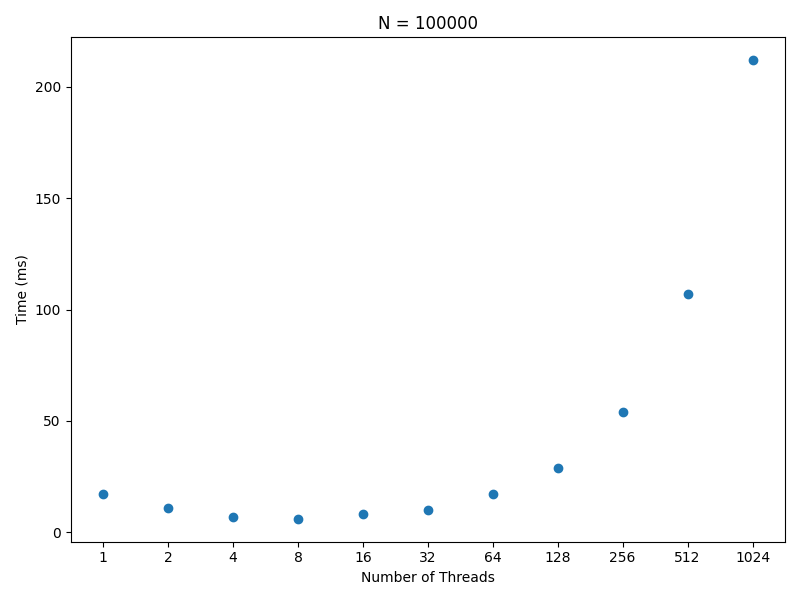
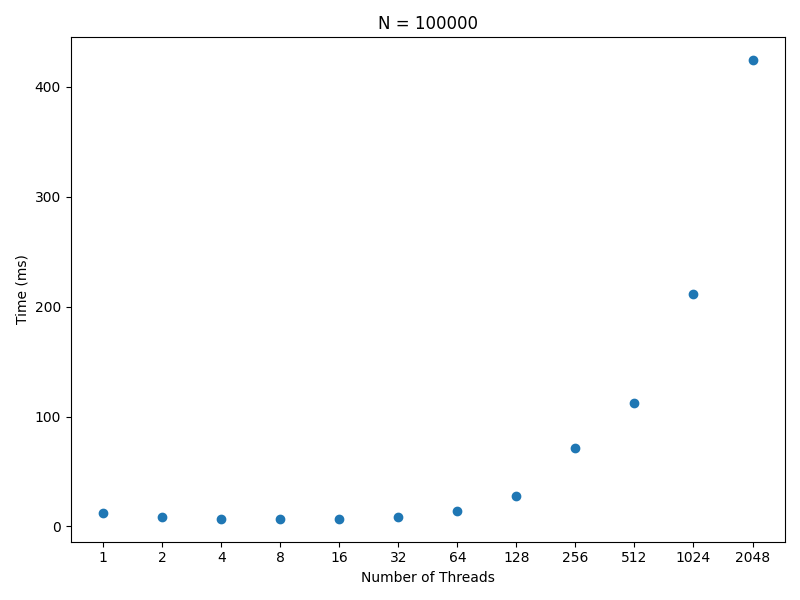
Update tests

diff --git a/PrimesFinder/src/test/java/TestChunksMethod/TestChunksMethod.java b/PrimesFinder/src/test/java/TestChunksMethod/TestChunksMethod.java
@@ -25,9 +25,9 @@ public class TestChunksMethod extends TestCase {
         }
     }
 
-    public void testChunksMethodPerformance() {
+    public void testChunksMethodPerformanceOnSmallN() {
         int[] nValues = {100, 1000, 10000, 100000, 1000000};
-        int[] threadCounts = {1, 2, 4, 8, 16, 32, 64, 128, 256, 512, 1024};
+        int[] threadCounts = {1, 2, 4, 8, 16, 32, 64, 128, 256, 512, 1024, 2048};
         int numRuns = 10;
 
         for (int n : nValues) {
@@ -50,20 +50,51 @@ public class TestChunksMethod extends TestCase {
         }
     }
 
-    public void testChunksMethodPerformanceOnLargeN() {
-        int[] nValues = {10000000, 100000000};
-        int[] threadCounts = {2, 4, 8, 16, 32, 64, 128, 256, 512, 1024, 2048};
+    public void testChunksMethodPerformanceOn1e7() {
+        int[] nValues = {10000000};
+        int[] threadCounts = {2, 4, 8, 16, 32, 64, 128, 256, 512, 1024, 2048, 4096, 8192, 16384};
+        int numRuns = 5;
 
         for (int n : nValues) {
             System.out.println("N = " + n);
             for (int threads : threadCounts) {
                 System.out.println("  Threads: " + threads);
-                IPrimesFinder finder = new ChunksMethod(n, threads);
-                long start = System.currentTimeMillis();
-                finder.getPrimesCount();
-                long end = System.currentTimeMillis();
-                long totalTime = end-start;
-                System.out.println("  Time: " + totalTime + "ms");
+                long totalTime = 0;
+                for (int i = 0; i < numRuns; i++) {
+                    IPrimesFinder finder = new ChunksMethod(n, threads);
+                    long start = System.currentTimeMillis();
+                    finder.getPrimesCount();
+                    long end = System.currentTimeMillis();
+                    long time = (end - start);
+                    totalTime += time;
+                }
+                long averageTime = totalTime / numRuns;
+                System.out.println("  Average Time: " + averageTime + "ms");
+            }
+            System.out.println();
+        }
+    }
+
+    public void testChunksMethodPerformanceOn1e8() {
+        int[] nValues = {100000000};
+        int[] threadCounts = {2, 4, 8, 16, 32, 64, 128, 256, 512, 1024, 2048, 4096, 8192, 16384};
+        int numRuns = 3;
+
+        for (int n : nValues) {
+            System.out.println("N = " + n);
+            for (int threads : threadCounts) {
+                System.out.println("  Threads: " + threads);
+                long totalTime = 0;
+                for (int i = 0; i < numRuns; i++) {
+                    IPrimesFinder finder = new ChunksMethod(n, threads);
+                    long start = System.currentTimeMillis();
+                    finder.getPrimesCount();
+                    long end = System.currentTimeMillis();
+                    long time = (end - start);
+                    totalTime += time;
+                }
+                long averageTime = totalTime / numRuns;
+                System.out.println("  Average Time: " + averageTime + "ms");
             }
             System.out.println();
         }

diff --git a/PrimesFinder/src/main/java/PrimesFinder/ChunksMethod/README.md b/PrimesFinder/src/main/java/PrimesFinder/ChunksMethod/README.md
@@ -6,15 +6,16 @@
 |---------|--------------|
 | 1       | 0ms          |
 | 2       | 0ms          |
-| 4       | 1ms          |
+| 4       | 2ms          |
 | 8       | 2ms          |
-| 16      | 7ms          |
-| 32      | 12ms         |
-| 64      | 13ms         |
-| 128     | 35ms         |
-| 256     | 53ms         |
-| 512     | 111ms        |
-| 1024    | 205ms        |
+| 16      | 4ms          |
+| 32      | 7ms          |
+| 64      | 16ms         |
+| 128     | 41ms         |
+| 256     | 50ms         |
+| 512     | 108ms        |
+| 1024    | 221ms        |
+| 2048    | 419ms        |
 
 ![Performance Graph](images/N_100.png)
 
@@ -22,17 +23,18 @@
 
 | Threads | Average Time |
 |---------|--------------|
-| 1       | 0ms          |
+| 1       | 1ms          |
 | 2       | 0ms          |
-| 4       | 0ms          |
+| 4       | 1ms          |
 | 8       | 1ms          |
 | 16      | 2ms          |
 | 32      | 5ms          |
 | 64      | 13ms         |
-| 128     | 26ms         |
-| 256     | 50ms         |
-| 512     | 103ms        |
-| 1024    | 206ms        |
+| 128     | 25ms         |
+| 256     | 52ms         |
+| 512     | 100ms        |
+| 1024    | 197ms        |
+| 2048    | 435ms        |
 
 ![Performance Graph](images/N_1000.png)
 
@@ -43,14 +45,15 @@
 | 1       | 1ms          |
 | 2       | 1ms          |
 | 4       | 1ms          |
-| 8       | 1ms          |
+| 8       | 2ms          |
 | 16      | 2ms          |
 | 32      | 5ms          |
-| 64      | 15ms         |
-| 128     | 24ms         |
-| 256     | 48ms         |
-| 512     | 101ms        |
-| 1024    | 208ms        |
+| 64      | 16ms         |
+| 128     | 26ms         |
+| 256     | 69ms         |
+| 512     | 127ms        |
+| 1024    | 274ms        |
+| 2048    | 446ms        |
 
 ![Performance Graph](images/N_10000.png)
 
@@ -58,17 +61,18 @@
 
 | Threads | Average Time |
 |---------|--------------|
-| 1       | 17ms         |
-| 2       | 11ms         |
+| 1       | 12ms         |
+| 2       | 9ms          |
 | 4       | 7ms          |
-| 8       | 6ms          |
-| 16      | 8ms          |
-| 32      | 10ms         |
-| 64      | 17ms         |
-| 128     | 29ms         |
-| 256     | 54ms         |
-| 512     | 107ms        |
-| 1024    | 212ms        |
+| 8       | 7ms          |
+| 16      | 7ms          |
+| 32      | 9ms          |
+| 64      | 14ms         |
+| 128     | 28ms         |
+| 256     | 71ms         |
+| 512     | 112ms        |
+| 1024    | 211ms        |
+| 2048    | 424ms        |
 
 ![Performance Graph](images/N_100000.png)
 
@@ -76,17 +80,18 @@
 
 | Threads | Average Time |
 |---------|--------------|
-| 1       | 295ms        |
+| 1       | 305ms        |
 | 2       | 199ms        |
-| 4       | 140ms        |
-| 8       | 139ms        |
-| 16      | 127ms        |
-| 32      | 130ms        |
-| 64      | 134ms        |
-| 128     | 143ms        |
-| 256     | 169ms        |
-| 512     | 214ms        |
-| 1024    | 329ms        |
+| 4       | 139ms        |
+| 8       | 134ms        |
+| 16      | 144ms        |
+| 32      | 146ms        |
+| 64      | 149ms        |
+| 128     | 173ms        |
+| 256     | 222ms        |
+| 512     | 250ms        |
+| 1024    | 359ms        |
+| 2048    | 703ms        |
 
 ![Performance Graph](images/N_1000000.png)
 
@@ -94,17 +99,20 @@
 
 | Threads | Average Time |
 |---------|--------------|
-| 2       | 6274ms       |
-| 4       | 4161ms       |
-| 8       | 3763ms       |
-| 16      | 3681ms       |
-| 32      | 3928ms       |
-| 64      | 4118ms       |
-| 128     | 3808ms       |
-| 256     | 3701ms       |
-| 512     | 3904ms       |
-| 1024    | 3968ms       |
-| 2048    | 4089ms       |
+| 2       | 6381ms       |
+| 4       | 4329ms       |
+| 8       | 4045ms       |
+| 16      | 3884ms       |
+| 32      | 3815ms       |
+| 64      | 3824ms       |
+| 128     | 3885ms       |
+| 256     | 3855ms       |
+| 512     | 3928ms       |
+| 1024    | 4094ms       |
+| 2048    | 4380ms       |
+| 4096    | 5061ms       |
+| 8192    | 6956ms       |
+| 16384   | 10148ms      |
 
 ![Performance Graph](images/N_10000000.png)
 
@@ -112,16 +120,19 @@
 
 | Threads | Average Time |
 |---------|--------------|
-| 2       | 153293ms     |
-| 4       | 109023ms     |
-| 8       | 100458ms     |
-| 16      | 98965ms      |
-| 32      | 98571ms      |
-| 64      | 98067ms      |
-| 128     | 96586ms      |
-| 256     | 96672ms      |
-| 512     | 96907ms      |
-| 1024    | 96808ms      |
-| 2048    | 97943ms      |
+| 2       | 160905ms     |
+| 4       | 106176ms     |
+| 8       | 94980ms      |
+| 16      | 95150ms      |
+| 32      | 93232ms      |
+| 64      | 93612ms      |
+| 128     | 92616ms      |
+| 256     | 90520ms      |
+| 512     | 90171ms      |
+| 1024    | 89448ms      |
+| 2048    | 90859ms      |
+| 4096    | 91669ms      |
+| 8192    | 92434ms      |
+| 16384   | 96146ms      |
 
 ![Performance Graph](images/N_100000000.png)
